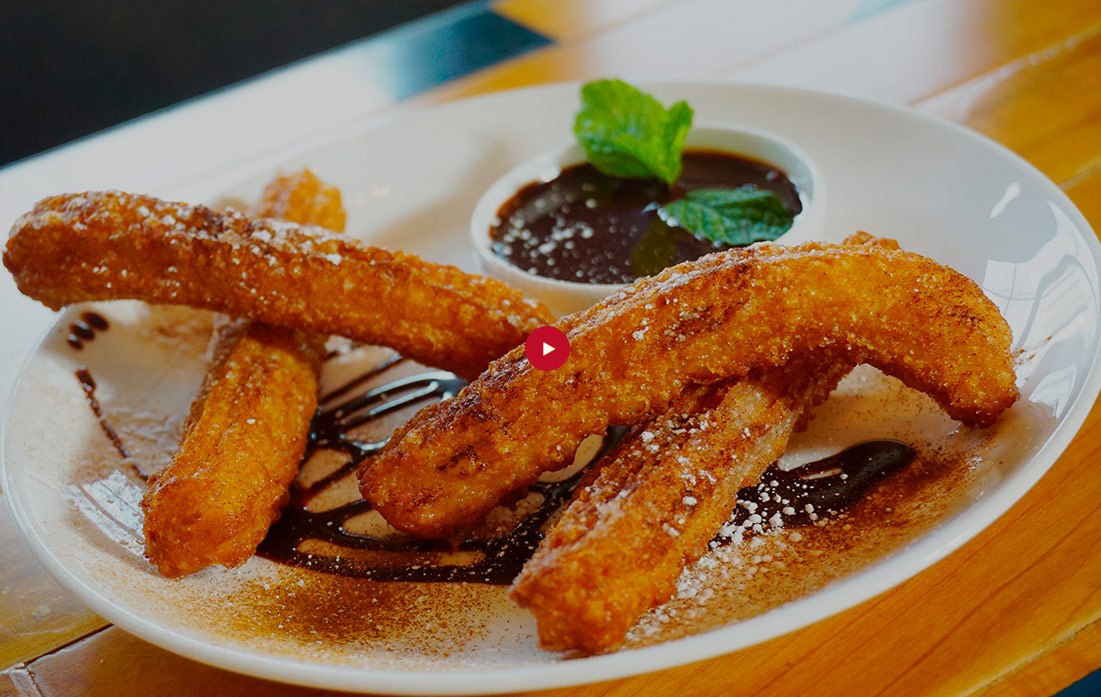
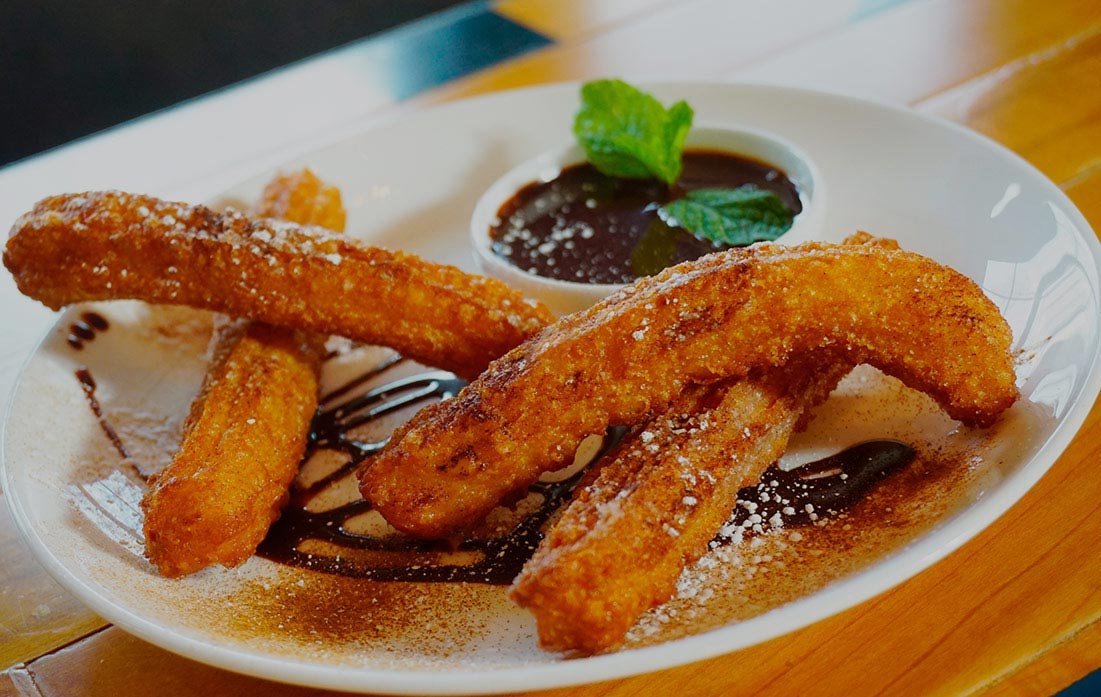
[Recetas Internas] Video churros
https://trello.com/c/wl5E1Yzv/88-recetas-internas-video-churros

diff --git a/como-hacer-churros-con-salsa-de-chocolate-abuelita.html b/como-hacer-churros-con-salsa-de-chocolate-abuelita.html
@@ -3,5 +3,5 @@ new Date().getTime(),event:'gtm.js'});var f=d.getElementsByTagName(s)[0],
 j=d.createElement(s),dl=l!='dataLayer'?'&l='+l:'';j.async=true;j.src=
 'https://www.googletagmanager.com/gtm.js?id='+i+dl;f.parentNode.insertBefore(j,f);
 })(window,document,'script','dataLayer','GTM-NBJJC6');
-</script></head><body class="wk-wrap-1920"><noscript><iframe src="https://www.googletagmanager.com/ns.html?id=GTM-NBJJC6" height="0" width="0" style="display:none;visibility:hidden;"></iframe></noscript><div class="wk-preloading"><span class="wk-preloading-loader"></span></div><header class="wk-section no-print" id="main-header"><section class="wk-section-wrap"><div id="site-logo"><a href="http://localhost:7892/"><img class="logo" src="http://localhost:7892/img/logo-abuelita-nestle.png" alt="Chocolate Abuelita"></a></div><div class="wk-cols-m"><div class="wk-col ui-box-model"><nav id="social-nav"><ul class="menu"><li class="menu-item"><a href="https://www.fb.me/ChocolateAbuelita" target="_blank"><i class="ui-icon fa fa-facebook"></i></a></li><li class="menu-item"><a href="https://www.instagram.com/abuelitamx" target="_blank"><i class="ui-icon fa fa-instagram"></i></a></li><li class="menu-item"><a href="https://twitter.com/abuelitamx" target="_blank"><i class="ui-icon fa fa-twitter"></i></a></li><li class="menu-item"><a href="https://www.youtube.com/user/chocolateabuelitamx" target="_blank"><i class="ui-icon fa fa-youtube"></i></a></li></ul></nav></div><div class="wk-col wk-d ui-box-model"><nav id="site-nav"><ul class="menu"><li class="menu-item"><a href="http://localhost:7892/historia.html">Historia</a></li><li class="menu-item"><a href="http://localhost:7892/productos.html">Productos</a></li><li class="menu-item"><a href="http://localhost:7892/el-ritual-abuelita.html">Ritual</a></li><li class="menu-item"><a href="http://localhost:7892/recetas.html">Recetas</a></li><li class="menu-item"><a href="http://localhost:7892/cocoa-plan.html">Cocoa Plan<sup>®</sup></a></li></ul></nav></div><div class="wk-col-1 wk-m wk-flex wk-flex-justify-end"><div class="off-canvas-icon"><div class="wk-icon"></div></div></div></div></section></header><main id="receta" role="main"><section class="&quot;ui-section-header wk-section ui-bg-bold&quot;" id="receta-banner"><div class="wk-section-wrap"><div class="ui-section-header ui-box-model" style="background-image: url(img/receta-banner-como-prepearar-churros-chocolate-abuelita-nestle.jpg);"><div class="ui-section-content"><span><img class="ui-section-icon ui-align-center" src="img/icon-recetas.png"/></span><h1 class="ui-title-big ui-title-ornament ui-text-gold">Receta</h1><h3 class="ui-title ui-text-white">Cómo hacer Churros con Salsa de Chocolate Abuelita<sup>®</sup></h3></div></div></div></section><div class="ui-block-texture-cover print"><section class="wk-section ui-box-model wk-wrap-1100 wk-margin-y-40 no-print" id="receta-video"><div class="wk-section-wrap"><a href="https://www.youtube.com/embed/ng8QwoqBnNA?rel=0&amp;amp;start=4" data-fancybox><img class="wk-img-responsive" src="img/video-play-receta-churros-chocolate-abuelita-nestle.jpg"></a></div></section><aside class="wk-wrap-1100 wk-margin-y-40 ui-box-model" id="receta-ingredientes"><div class="wk-section-wrap"><h6 class="ui-title"><img src="img/icon-ingredientes.png">Ingredientes</h6><ul><li>2 tazas de leche entera  500  ml</li><li>1 barra de mantequilla   90 g  </li><li>1/4 de taza de azúcar  62.5 g </li><li>1 cda. de esencia de vainilla  12  ml</li><li>2 tazas de harina de trigo  500 g </li><li>4 piezas de huevos  240 g </li></ul><p>Salsa:</p><ul><li>1 lata con Leche Condensada LA LECHERA<sup>®</sup>   397  ml</li><li>4 piezas de huevos  240 g </li></ul><h6 class="ui-title"><img src="img/icon-hornear.png">Horno precalentado a 180°C</h6><h6 class="ui-title"><img src="img/icon-preparacion.png">Preparación</h6></div></aside><section class="wk-wrap-1100 ui-box-model wk-m-text-center" id="receta-content"><div class="wk-section-wrap"><!--+recetaPaso ( 'numeroDePaso', 'Contenido' )
+</script></head><body class="wk-wrap-1920"><noscript><iframe src="https://www.googletagmanager.com/ns.html?id=GTM-NBJJC6" height="0" width="0" style="display:none;visibility:hidden;"></iframe></noscript><div class="wk-preloading"><span class="wk-preloading-loader"></span></div><header class="wk-section no-print" id="main-header"><section class="wk-section-wrap"><div id="site-logo"><a href="http://localhost:7892/"><img class="logo" src="http://localhost:7892/img/logo-abuelita-nestle.png" alt="Chocolate Abuelita"></a></div><div class="wk-cols-m"><div class="wk-col ui-box-model"><nav id="social-nav"><ul class="menu"><li class="menu-item"><a href="https://www.fb.me/ChocolateAbuelita" target="_blank"><i class="ui-icon fa fa-facebook"></i></a></li><li class="menu-item"><a href="https://www.instagram.com/abuelitamx" target="_blank"><i class="ui-icon fa fa-instagram"></i></a></li><li class="menu-item"><a href="https://twitter.com/abuelitamx" target="_blank"><i class="ui-icon fa fa-twitter"></i></a></li><li class="menu-item"><a href="https://www.youtube.com/user/chocolateabuelitamx" target="_blank"><i class="ui-icon fa fa-youtube"></i></a></li></ul></nav></div><div class="wk-col wk-d ui-box-model"><nav id="site-nav"><ul class="menu"><li class="menu-item"><a href="http://localhost:7892/historia.html">Historia</a></li><li class="menu-item"><a href="http://localhost:7892/productos.html">Productos</a></li><li class="menu-item"><a href="http://localhost:7892/el-ritual-abuelita.html">Ritual</a></li><li class="menu-item"><a href="http://localhost:7892/recetas.html">Recetas</a></li><li class="menu-item"><a href="http://localhost:7892/cocoa-plan.html">Cocoa Plan<sup>®</sup></a></li></ul></nav></div><div class="wk-col-1 wk-m wk-flex wk-flex-justify-end"><div class="off-canvas-icon"><div class="wk-icon"></div></div></div></div></section></header><main id="receta" role="main"><section class="&quot;ui-section-header wk-section ui-bg-bold&quot;" id="receta-banner"><div class="wk-section-wrap"><div class="ui-section-header ui-box-model" style="background-image: url(img/receta-banner-como-prepearar-churros-chocolate-abuelita-nestle.jpg);"><div class="ui-section-content"><span><img class="ui-section-icon ui-align-center" src="img/icon-recetas.png"/></span><h1 class="ui-title-big ui-title-ornament ui-text-gold">Receta</h1><h3 class="ui-title ui-text-white">Cómo hacer Churros con Salsa de Chocolate Abuelita<sup>®</sup></h3></div></div></div></section><div class="ui-block-texture-cover print"><section class="wk-section ui-box-model wk-wrap-1100 wk-margin-y-40 no-print" id="receta-video"><div class="wk-section-wrap"><!--a(href="https://www.youtube.com/embed/ng8QwoqBnNA?rel=0&amp;start=4" data-fancybox)--><img class="wk-img-responsive" src="img/video-play-receta-churros-chocolate-abuelita-nestle.jpg"></div></section><aside class="wk-wrap-1100 wk-margin-y-40 ui-box-model" id="receta-ingredientes"><div class="wk-section-wrap"><h6 class="ui-title"><img src="img/icon-ingredientes.png">Ingredientes</h6><ul><li>2 tazas de leche entera  500  ml</li><li>1 barra de mantequilla   90 g  </li><li>1/4 de taza de azúcar  62.5 g </li><li>1 cda. de esencia de vainilla  12  ml</li><li>2 tazas de harina de trigo  500 g </li><li>4 piezas de huevos  240 g </li></ul><p>Salsa:</p><ul><li>1 lata con Leche Condensada LA LECHERA<sup>®</sup>   397  ml</li><li>4 piezas de huevos  240 g </li></ul><h6 class="ui-title"><img src="img/icon-hornear.png">Horno precalentado a 180°C</h6><h6 class="ui-title"><img src="img/icon-preparacion.png">Preparación</h6></div></aside><section class="wk-wrap-1100 ui-box-model wk-m-text-center" id="receta-content"><div class="wk-section-wrap"><!--+recetaPaso ( 'numeroDePaso', 'Contenido' )
 --><div class="wk-cols"><div class="wk-col-1 wk-text-center"> <div class="ui-icon"><i>1</i></div></div><div class="wk-col-11"><span>Para la salsa: Mezcla la Leche Condensada LA LECHERA<sup>®</sup> con el Chocolate ABUELITA<sup>®</sup> Granulado; reserva.</span></div></div><div class="wk-cols"><div class="wk-col-1 wk-text-center"> <div class="ui-icon"><i>2</i></div></div><div class="wk-col-11"><span>En una cacerola calienta la leche con la mantequilla, el azúcar y la vainilla hasta que se funda la grasa; agrega la harina y mezcla fuertemente con una pala hasta formar una masa que se despegue de la cacerola. </span></div></div><div class="wk-cols"><div class="wk-col-1 wk-text-center"> <div class="ui-icon"><i>3</i></div></div><div class="wk-col-11"><span>Bate la masa y agrega los huevos uno a uno hasta que quede una pasta tersa y brillosa. Coloca la pasta en una manga con una duya rizada. </span></div></div><div class="wk-cols"><div class="wk-col-1 wk-text-center"> <div class="ui-icon"><i>4</i></div></div><div class="wk-col-11"><span>Aparte, en una cacerola calienta el aceite; forma los churros con la ayuda de la duya y fríelos hasta que queden dorados</span></div></div></div></section><section class="wk-wrap-1100 wk-text-center ui-d-row-padding" id="receta-buttons"><div class="wk-section-wrap"><div class="wk-cols"><div class="wk-col-3 ui-box-model wk-d"><a class="ui-btn" href="#" onclick="window.print()"><img src="img/icon-imprimir.png" alt="Imprimir"><span>Imprimir</span></a></div><div class="wk-col-3 ui-box-model no-print"><span class="ui-btn ui-btn-share"><div class="ui-btn-share-content"><span class="ui-btn-copy"><img src="img/icon-compartir.png" alt="Comparte"/><span>Compartir</span></span><span class="ui-btn-icons"><a class="fa fa-twitter" href="https://twitter.com/home?status=Chocolateabuelita" onclick="window.open('https://twitter.com/home?status=@abuelitamx  Descubre cómo hacer Churros con Salsa de Chocolate Abuelita&lt;sup&gt;®&lt;/sup&gt; y otras deliciosas recetas en www.abuelita.com.mx','pagename','resizable,height=400,width=480'); return false;"></a><a class="fa fa-facebook" href="https://www.facebook.com/sharer/sharer.php?u=http://localhost:7892/como-hacer-churros-con-salsa-de-chocolate-abuelita.html" onclick="window.open('https://www.facebook.com/sharer/sharer.php?u=http://localhost:7892/como-hacer-churros-con-salsa-de-chocolate-abuelita.html','pagename','resizable,height=400,width=480'); return false;"></a></span></div></span></div><div class="wk-col-3 ui-box-model no-print"><a class="ui-btn" href="/recetas.html"> <img src="img/icon-conoce-mas-recetas.png" alt="Más recetas"><span>Más recetas</span></a></div><div class="wk-col-3 ui-box-model no-print"><a class="ui-btn" href="#"> <span class="icon fa fa-shopping-cart ui-text-gold"></span><span>Comprar en superama			</span></a></div></div></div></section><section class="wk-section wk-wrap-1100 ui-bg-red wk-text-center ui-section-leyend" id="receta-leyend"><div class="wk-section-wrap"><div class="ui-row-padding"> <h2 class="ui-subtitle ui-section-leyend-title"><img class="wk-margin-y-20" src="img/icon-consejo.png" alt="Consejo de Abuelita - Nestle"><h3 class="ui-title ui-text-gold">Consejo de Abuelita&reg;</h3><p>Cuando calientes el aceite  para freír los churros asegúrate de  no tener la flama al máximo para que no se quemen.</p></h2></div></div></section></div></main><footer id="main-footer"><section class="wk-section wk-wrap-1100"><div class="wk-section-wrap ui-box-model"><div class="wk-cols"><div class="wk-col-1" data-layout-mobile="padding-y(40px)" data-layout-desktop="margin-x(20px)"><img width="100" src="img/logo-abuelita-footer-nestle.png" alt="Logo Chocolate Abuelita"></div><div class="wk-col-11"><div class="container"><span>&copy; NESTLÉ </span><strong><a class="ui-text-gold ui-text-underline" href="https://www.nestle.com.mx/info/copyright" target="_black">TÉRMINOS Y CONDICIONES</a></strong><span> / </span><strong><a class="ui-text-gold ui-text-underline" href="https://www.nestle.com.mx/info/tc" target="_black">POLÍTICA DE PRIVACIDAD </a></strong><span>Marcas Registradas usadas bajo licencia de su titular Société des Produits Nestlé S.A., Case Postale 353, 1800 Vevey, Suiza</span><br><span class="ui-text-gold ui-text-bold wk-m">CONTACTO NESTLÉ &copy; | CALL CENTER: <a href="tel:5267 3303">5267 3303 </a>ó <a href="tel:01800 363 7853">01800 363 7853</a></span><span class="ui-text-gold ui-text-bold wk-d">CONTACTO NESTLÉ &copy; | CALL CENTER: <span>5267 3303 </span>ó <span>01800 363 7853</span></span></div></div></div></div></section></footer><div class="off-canvas-menu wk-m"><ul class="ui-menu"> <li class="ui-subtitle-small ui-title-ornament ui-text-white ui-box-model"><a href="http://localhost:7892/index.html">Inicio</a></li><li class="ui-subtitle-small ui-title-ornament ui-text-white ui-box-model"><a href="http://localhost:7892/historia.html">Historia</a></li><li class="ui-subtitle-small ui-title-ornament ui-text-white ui-box-model"><a href="http://localhost:7892/productos.html">Productos</a></li><li class="ui-subtitle-small ui-title-ornament ui-text-white ui-box-model"><a href="http://localhost:7892/el-ritual-abuelita.html">Ritual</a></li><li class="ui-subtitle-small ui-title-ornament ui-text-white ui-box-model"><a href="http://localhost:7892/recetas.html">Recetas</a></li><li class="ui-subtitle-small ui-title-ornament ui-text-white ui-box-model"><a href="http://localhost:7892/cocoa-plan.html">Cocoa Plan<sup>®</sup></a></li></ul></div></body></html>
